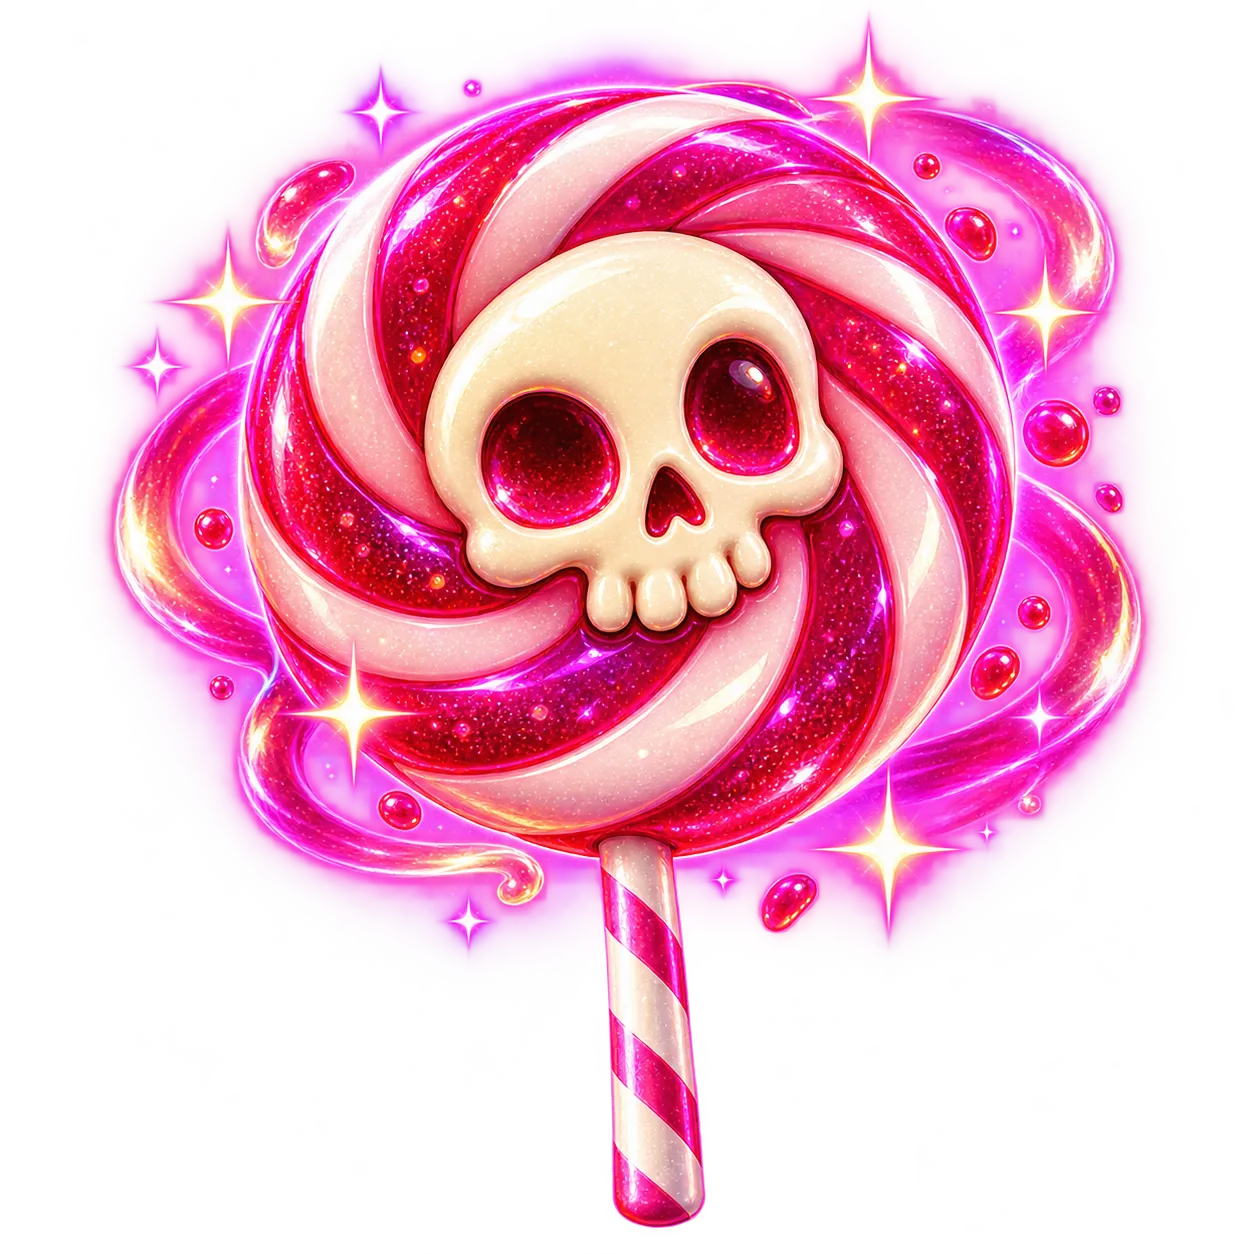
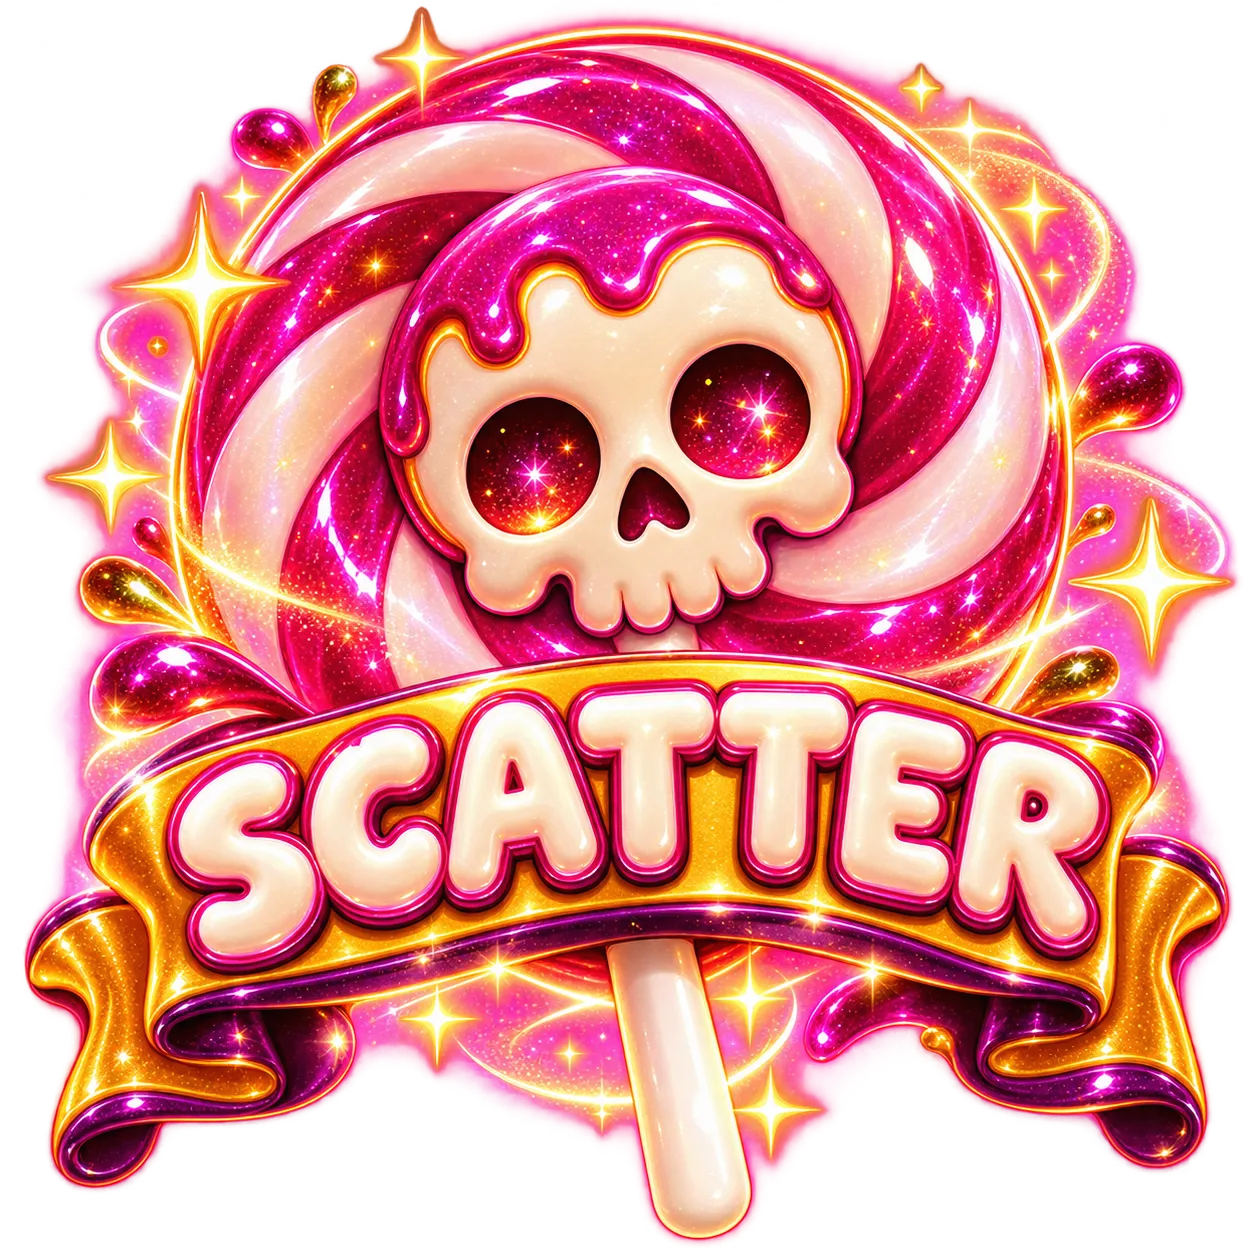
Sugar Scream: new painted SCATTER lollipop, drawn 1.2x larger and above its neighbours
Claude-Session: https://claude.ai/code/session_01HitSteP5eHJxZRoG6RzXow

diff --git a/games/sugar-scream/src/client/game/scene.ts b/games/sugar-scream/src/client/game/scene.ts
@@ -12,6 +12,7 @@ const S = 160;
 const BOARD_W = REELS * S;
 const BOARD_H = ROWS * S;
 const SYMBOL_SIZE = S * 0.86;
+const SCATTER_SCALE = 1.2;
 
 /**
  * Measured on the painted frame (art/source/panel_board.webp, 1374x1145): its 5 divider lines
@@ -55,9 +56,12 @@ class CellView {
     this.symbol = symbol;
     this.sprite.texture = symbolTexture(symbol);
     this.sprite.tint = 0xffffff;
-    this.sprite.width = SYMBOL_SIZE;
-    this.sprite.height = SYMBOL_SIZE;
+    // the Skull Lollipop scatter is drawn larger so it stands out (it may overlap its neighbours)
+    const size = symbol === 'SC' ? SYMBOL_SIZE * SCATTER_SCALE : SYMBOL_SIZE;
+    this.sprite.width = size;
+    this.sprite.height = size;
     this.baseScale = this.sprite.scale.x;
+    this.root.zIndex = symbol === 'SC' ? 2 : symbol === 'JK' ? 1 : 0;
     this.label?.destroy();
     this.label = null;
     if (symbol === 'JK' && mult > 0) {
@@ -115,6 +119,7 @@ export class Scene {
     app.stage.addChild(this.ambience.root, this.world);
     this.gridMask.rect(-10, -6, BOARD_W + 20, BOARD_H + 12).fill(0xffffff);
     this.grid.mask = this.gridMask;
+    this.grid.sortableChildren = true;
     const frame = this.makeFrame();
     this.frameGlow.blendMode = 'add';
     this.lantern.blendMode = 'add';
